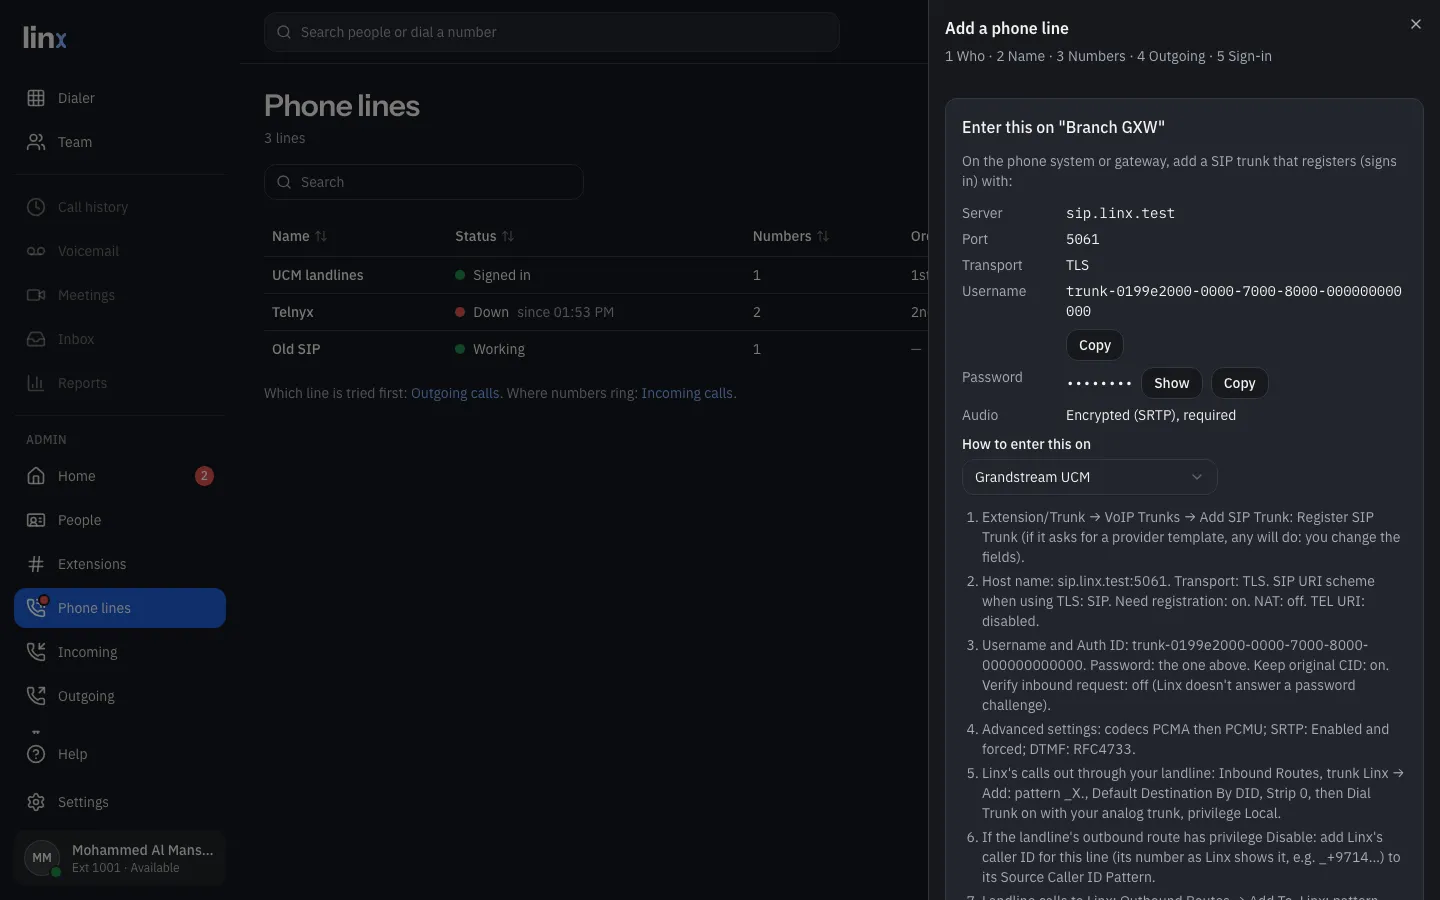
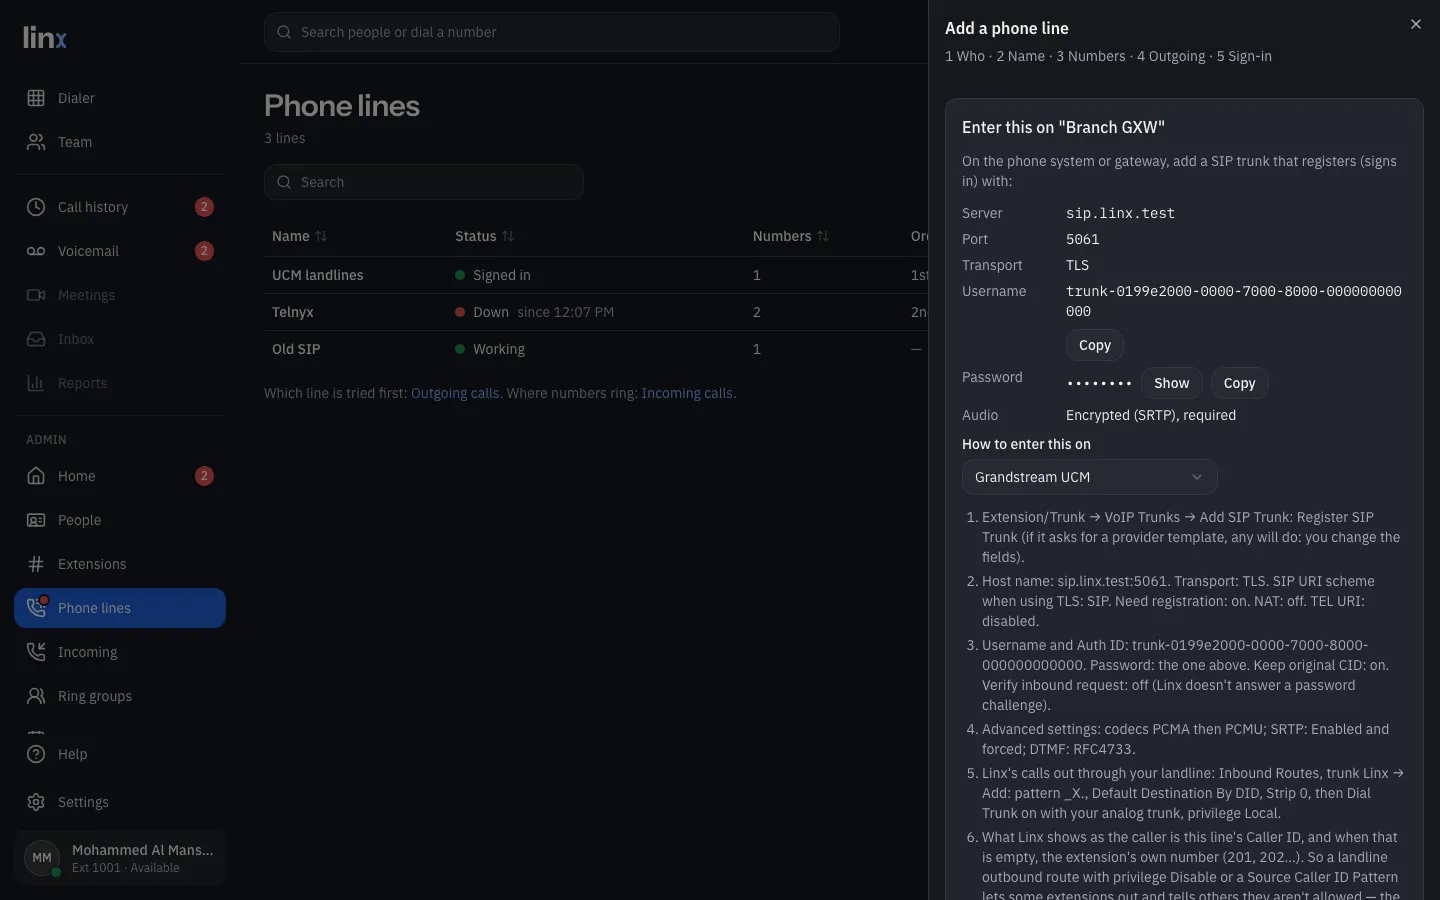
Say what Linx shows as the caller on a gateway's line
The owner's call to their own mobile was refused from extension 201 and went
through from 200, with the message coming down the line from their UCM, not
from Linx. The server's own record is plain: Linx allowed the call, dialled
0554551699 in the local format the line is set to, handed it to the line, and
got no answer. Their UCM's landline outbound route accepts only caller IDs
matching _042340100 and _+97142340100 - and Linx presents the extension's own
number when the line's Caller ID is empty, so one extension gets out and
another is told it isn't allowed.

Linx's own how-to for a UCM led straight into that: it said to add "Linx's
caller ID for this line (its number as Linx shows it)" to the UCM's pattern,
which is only true once the line has a Caller ID set. It now says what Linx
actually sends, that a refusal of this kind is the UCM speaking, and names the
one-field cure on the same page - set the line's Caller ID to the landline's
own number, which is what the phone company shows for an analog line anyway.

No behaviour changed: this is the copy on the phone line's how-to.

make lint, make test and make screens pass (two help pictures of that how-to
updated; TestProbePlain fails locally only while the dev stack's Asterisk holds
127.0.0.1:5061).

Claude-Session: https://claude.ai/code/session_01EoSCBWDKWy6VASLQMKqTyy

Changed region(s): [[0.6562, 0.9022, 0.9688, 1.0], [0.125, 0.2178, 0.1562, 0.3111], [0.0, 0.7467, 0.0938, 0.7778]]

diff --git a/web/src/lib/gatewayHowTo.ts b/web/src/lib/gatewayHowTo.ts
@@ -29,7 +29,7 @@ export function gatewaySteps(product: GatewayProduct, l: GatewayLogin): string[]
         `Username and Auth ID: ${l.username}. Password: the one above. Keep original CID: on. Verify inbound request: off (Linx doesn't answer a password challenge).`,
         "Advanced settings: codecs PCMA then PCMU; SRTP: Enabled and forced; DTMF: RFC4733.",
         "Linx's calls out through your landline: Inbound Routes, trunk Linx → Add: pattern _X., Default Destination By DID, Strip 0, then Dial Trunk on with your analog trunk, privilege Local.",
-        "If the landline's outbound route has privilege Disable: add Linx's caller ID for this line (its number as Linx shows it, e.g. _+9714…) to its Source Caller ID Pattern.",
+        "What Linx shows as the caller is this line's Caller ID, and when that is empty, the extension's own number (201, 202…). So a landline outbound route with privilege Disable or a Source Caller ID Pattern lets some extensions out and tells others they aren't allowed — the UCM saying it, not Linx. The cure is on this page: set this line's Caller ID to the landline's own number, which is what the phone company shows for an analog line anyway. Otherwise add the extensions to that route's Source Caller ID Pattern (e.g. _2XX).",
         "Landline calls to Linx: Outbound Routes → Add To_Linx: pattern _*88X., privilege Internal, main trunk Linx, Strip 3. Then the analog trunk's inbound route: Default Destination External Number *88 followed by the landline number.",
       ];
     case "gxw":
